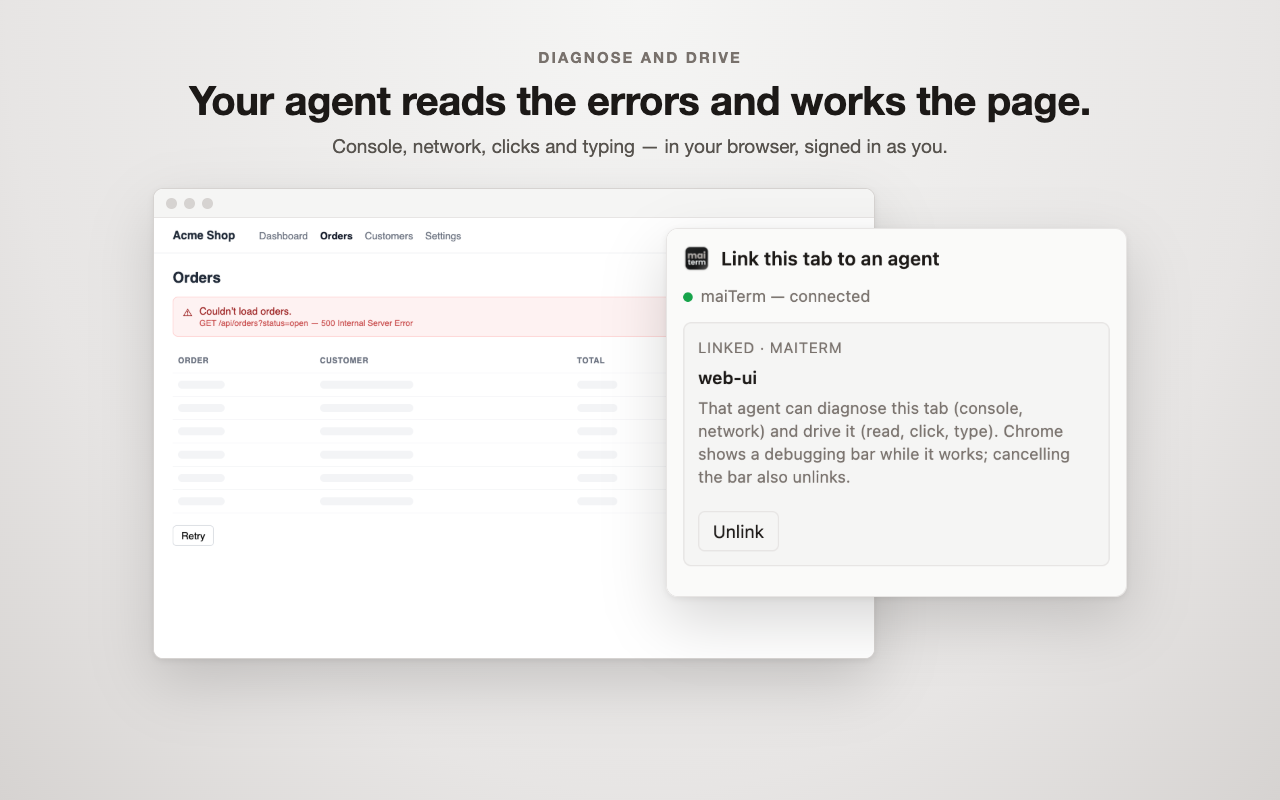
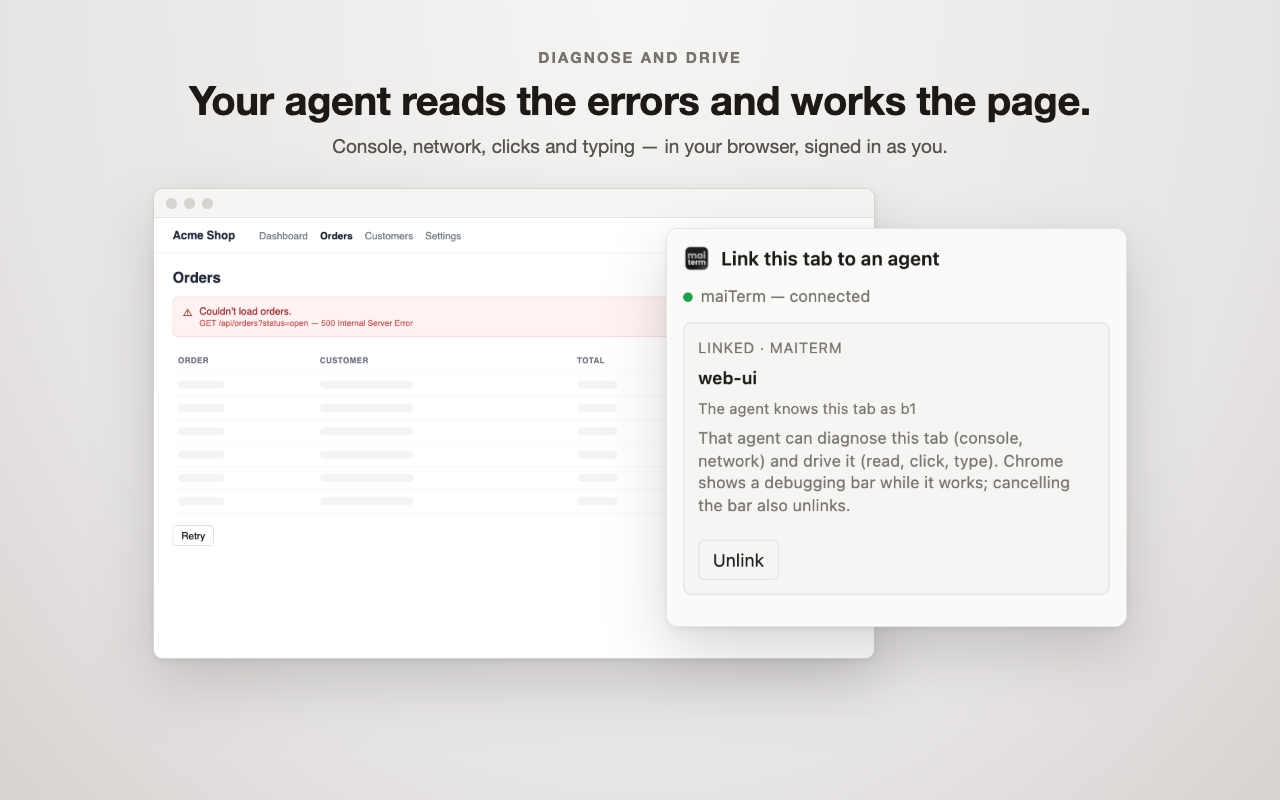
Chrome extension store material: the listing, privacy policy and screenshots for several tabs per agent and popups that join it

Changed region(s): [[0.5312, 0.5, 0.9062, 0.7812]]

diff --git a/chrome-extension/STORE_LISTING.md b/chrome-extension/STORE_LISTING.md
@@ -25,7 +25,7 @@ maiTerm
 **Summary** (132 characters max)
 
 ```
-Let a maiTerm AI agent debug and drive one browser tab you link to it: console, network, page, clicks and typing.
+Let a maiTerm AI agent debug and drive the browser tabs you link to it: console, network, page, clicks and typing.
 ```
 
 **Category:** Developer Tools
@@ -34,7 +34,7 @@ Let a maiTerm AI agent debug and drive one browser tab you link to it: console, 
 **Detailed description**
 
 ```
-maiTerm for Chrome connects one browser tab to one AI agent running in maiTerm, the terminal for working with coding agents (https://maiterm.dev). You choose the tab and the agent; the agent can then diagnose and drive that tab, in your own browser with your own logins.
+maiTerm for Chrome connects browser tabs you choose to an AI agent running in maiTerm, the terminal for working with coding agents (https://maiterm.dev). You choose the tabs and the agent; the agent can then diagnose and drive them, in your own browser with your own logins.
 
 DIAGNOSE
 - Console errors and warnings, with the file and line they came from
@@ -50,7 +50,7 @@ Typical uses: an agent fixing a bug reproduces it in your real, signed-in app an
 
 YOU STAY IN CONTROL
 - Only you link a tab, from this extension's icon. An agent cannot pick or reach any other tab.
-- Each agent can use only the tab linked to it.
+- Each agent can use only the tabs linked to it. A popup a linked page opens for it, such as a sign-in window, joins it too.
 - Chrome shows its "is debugging this browser" bar while a tab is in use. Cancel it, close the tab, click Unlink, or turn the feature off in maiTerm, and the link ends.
 - It works in the background: you can keep using other tabs while an agent works in its own.
 
@@ -76,7 +76,7 @@ https://maiterm.dev/chrome-extension/privacy/
 **Single purpose**
 
 ```
-Lets an AI agent running in the maiTerm desktop app diagnose and operate one browser tab that the user has explicitly linked to that agent.
+Lets an AI agent running in the maiTerm desktop app diagnose and operate the browser tabs that the user has explicitly linked to that agent, and popup windows those tabs open.
 ```
 
 **Permission justifications**
@@ -84,7 +84,7 @@ Lets an AI agent running in the maiTerm desktop app diagnose and operate one bro
 `debugger`
 
 ```
-This is how the agent works in the tab the user linked, and only that tab. Through the DevTools Protocol it reads the page's accessibility tree, console errors and network requests (including a failing request's response body, which is how a developer finds why an API call broke), takes screenshots, and sends clicks and key presses. Content scripts cannot do this: they cannot read network traffic or uncaught errors from other scripts, and their synthetic events are untrusted, so pages ignore them. The debugger is attached only to a tab the user linked through the extension's popup; Chrome's "is debugging this browser" bar shows while it is attached, and cancelling it unlinks the tab.
+This is how the agent works in the tabs the user linked (and popup windows those tabs open), and only those. Through the DevTools Protocol it reads the page's accessibility tree, console errors and network requests (including a failing request's response body, which is how a developer finds why an API call broke), takes screenshots, and sends clicks and key presses. Content scripts cannot do this: they cannot read network traffic or uncaught errors from other scripts, and their synthetic events are untrusted, so pages ignore them. The debugger is attached only to a tab the user linked through the extension's popup; Chrome's "is debugging this browser" bar shows while it is attached, and cancelling it unlinks the tab.
 ```
 
 `nativeMessaging`

diff --git a/chrome-extension/PRIVACY.md b/chrome-extension/PRIVACY.md
@@ -1,6 +1,6 @@
 # Privacy Policy — maiTerm for Chrome
 
-Last updated: 21 October 2026
+Last updated: 22 October 2026
 
 ## The short version
 
@@ -14,9 +14,15 @@ OpenAI, as part of its conversation. That provider's policy governs what happens
 
 ## Which tabs it touches
 
-Only tabs you link yourself. You click the extension's icon on a tab and choose one maiTerm
-agent tab, and that is the only way a link is made. An agent cannot link a tab, choose a tab or
-reach any other tab.
+Only tabs you link yourself, and the tabs those pages open for the agent:
+
+- **You link a tab** by clicking the extension's icon on it and choosing one maiTerm agent tab.
+  One agent can hold several linked tabs; each tab belongs to one agent.
+- **A tab a linked page opens joins that page's agent**: a popup window it opens (a sign-in
+  window, for example), or a tab it opens within a few seconds of the agent acting on it. A tab
+  you open yourself from a linked page, such as with a middle-click, is not linked.
+
+An agent cannot link a tab or choose one, and reaches only the tabs linked to it.
 
 The extension uses Chrome's debugger (the DevTools Protocol) on a linked tab, and Chrome shows
 its "is debugging this browser" bar while it does. Cancelling that bar, closing the tab, clicking
